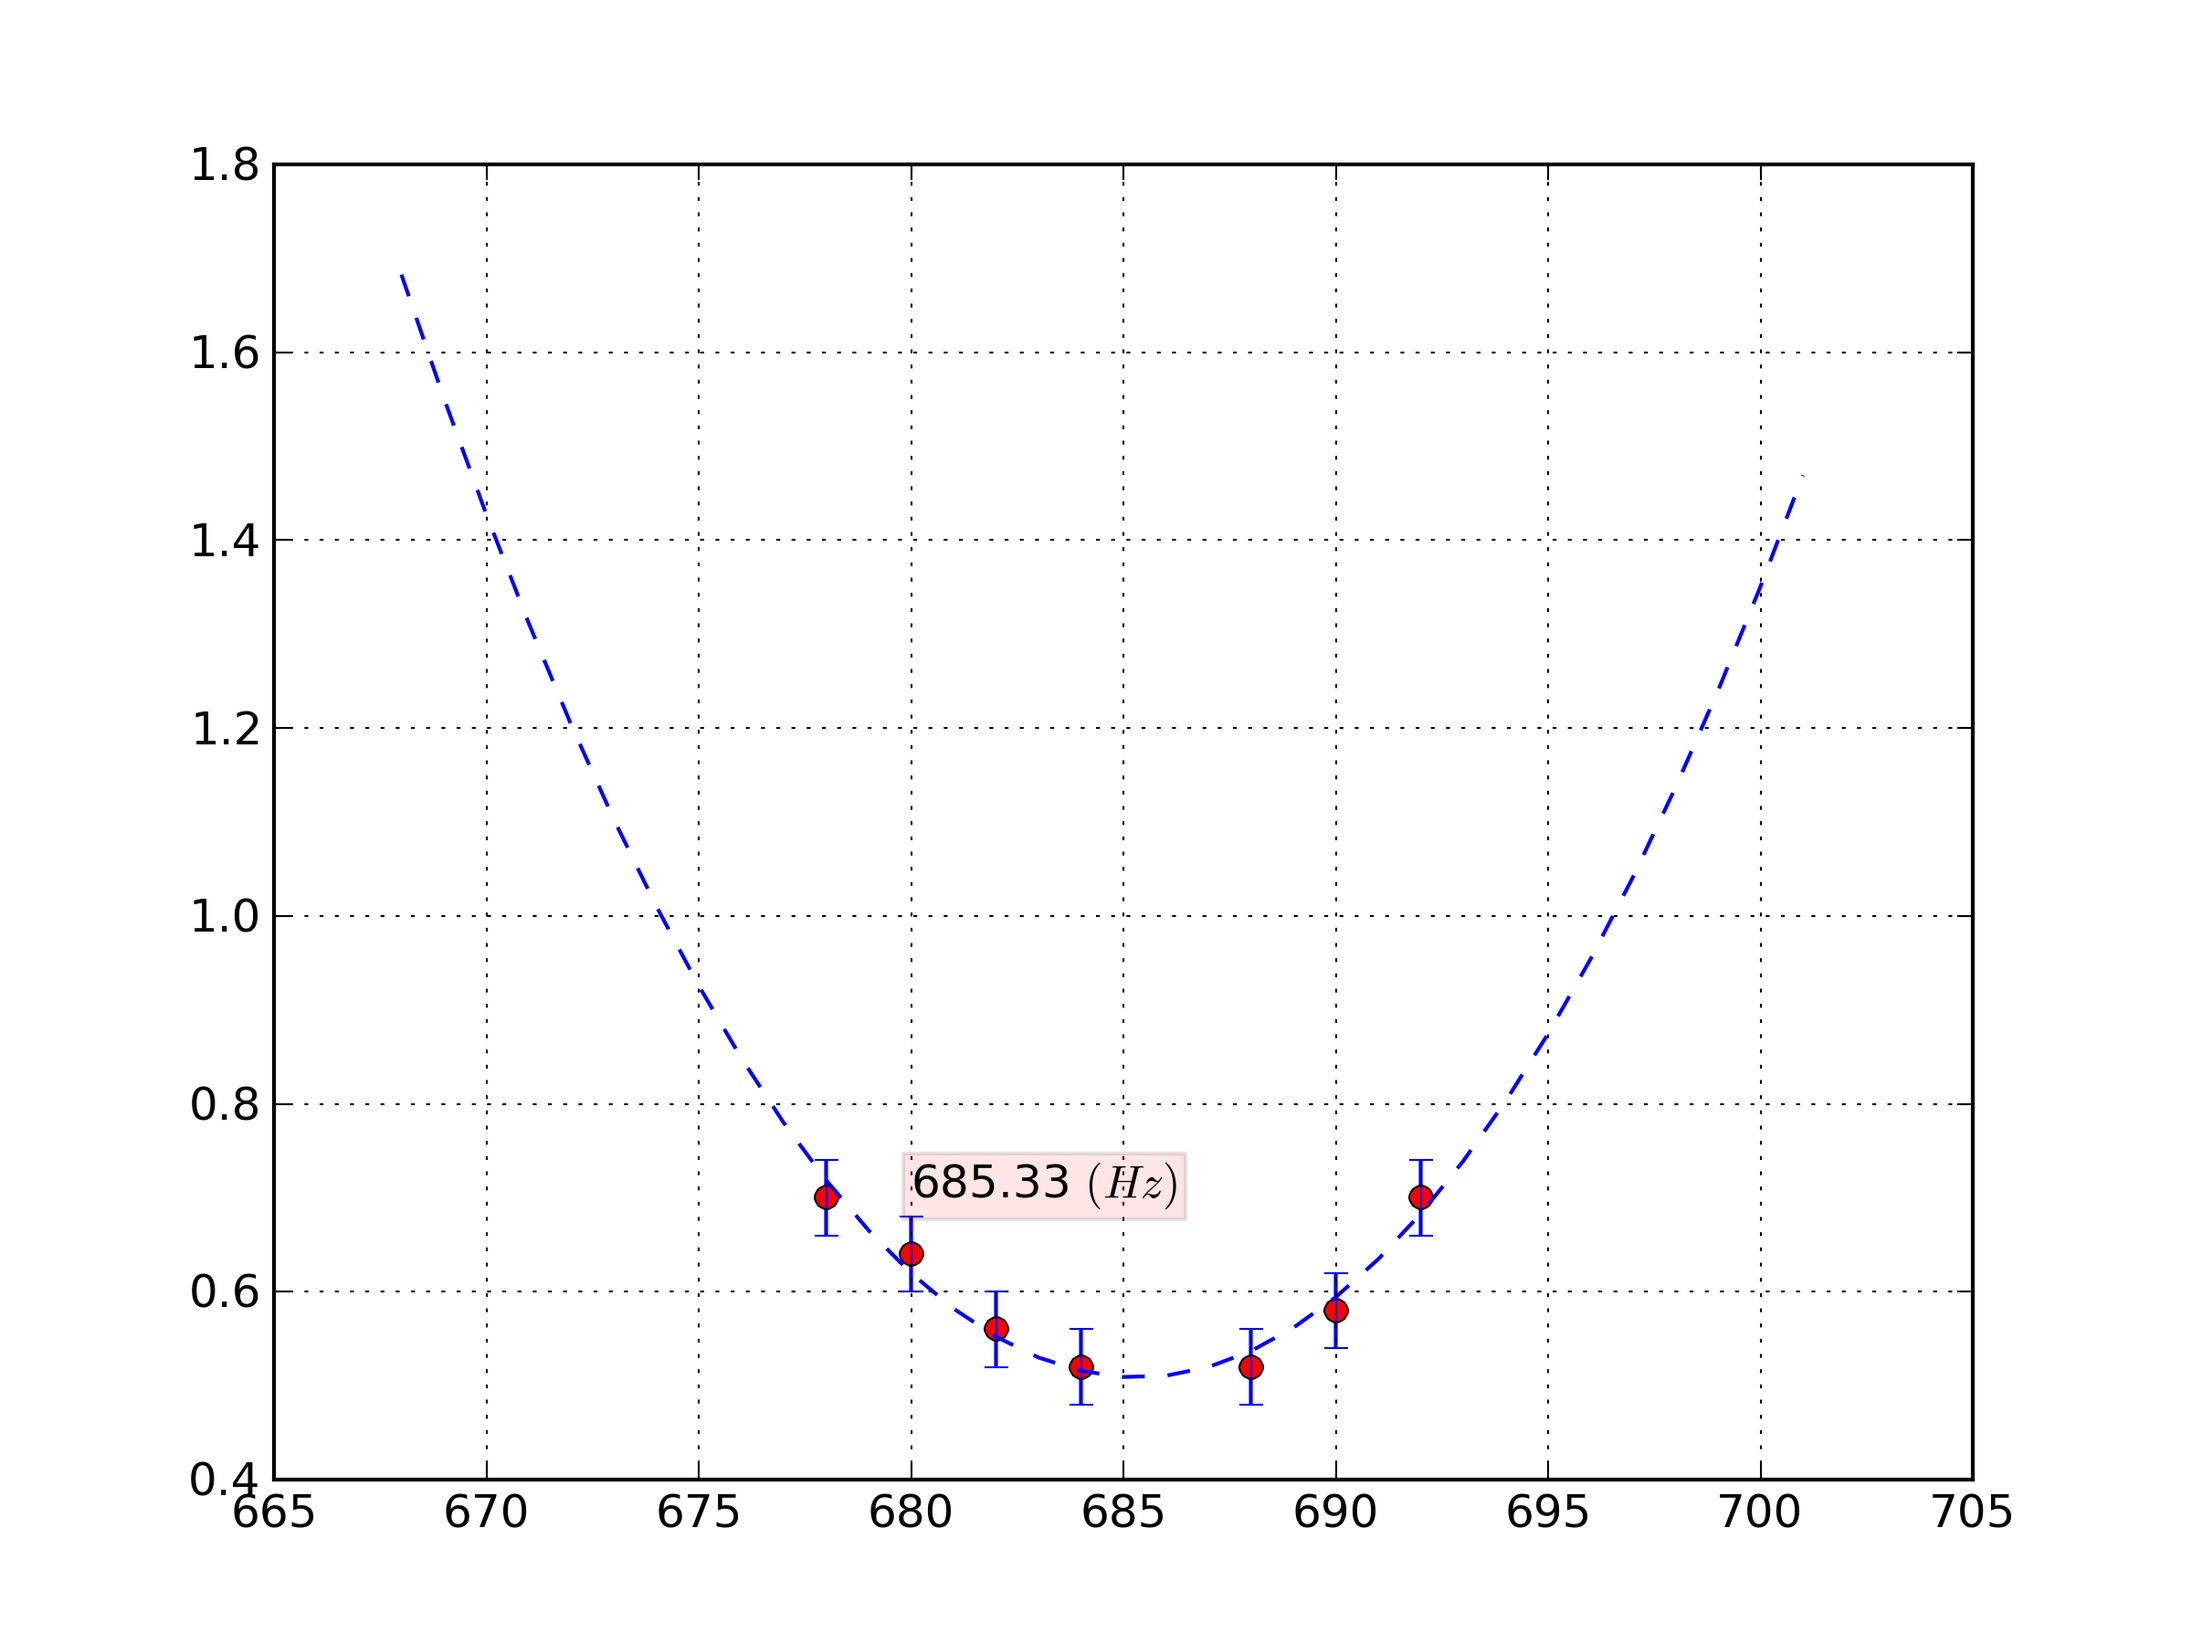
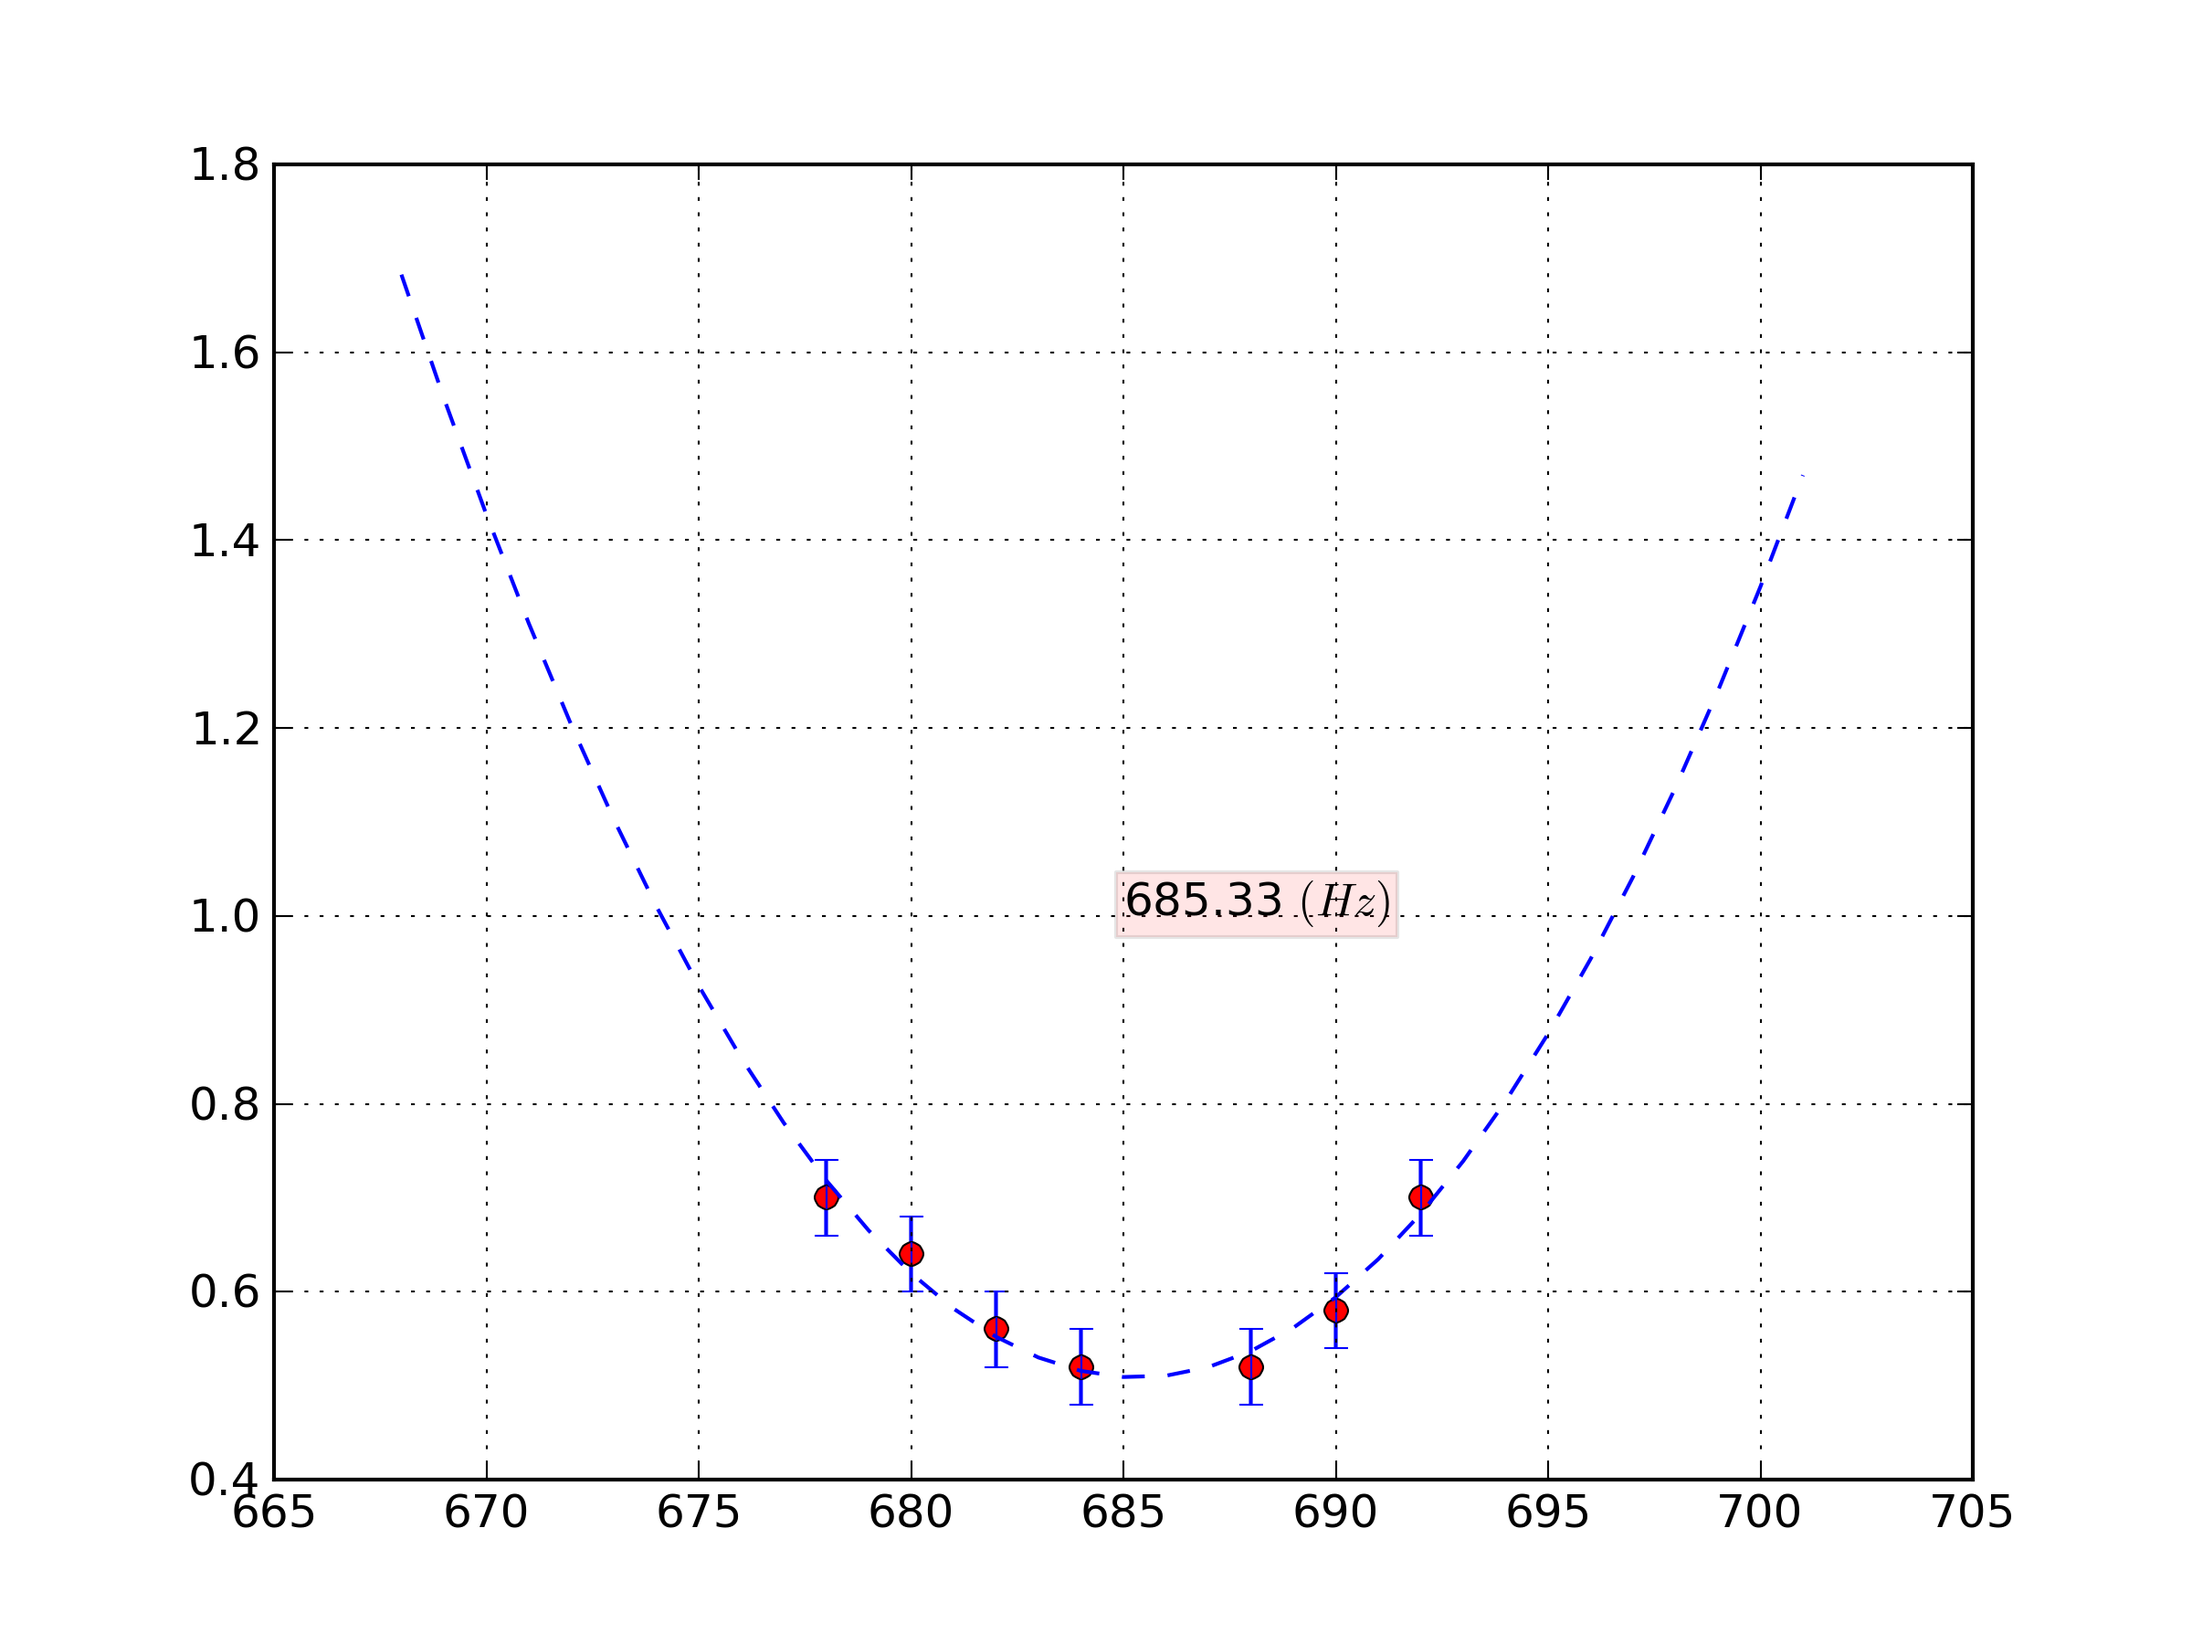
Iii:

Changed region(s): [[0.5, 0.5289, 0.6562, 0.5911], [0.4062, 0.6844, 0.5625, 0.7467]]

diff --git a/em.tex b/em.tex
@@ -37,6 +37,54 @@ Frequenze di risonanza intorno ai 500 kH (nota: è un minimo -> potenziale ai ca
 \end{comment}
 
 \subparagraph*{Configurazione 1}
+%40
+\begin{sagesilent}
+ #Fit per stimare i parametri -> Frequenza di risonanza: -b/2a
+
+#Carico file
+raw = np.recfromcsv('dati/EM/40.csv')
+
+#Seleziono dati per il fit
+batch1 = raw[raw['freq']>640]
+batch2 = batch1[batch1['freq']< 695]
+
+#Carico negli array i dati giusti
+freq = batch2['freq']
+volt = batch2['vout']
+yerr = batch2['errv']
+
+
+def funz(x,a,b,c):
+    return a*x^2+b*x+c
+
+def func(P,x):
+    return funz(x,P[0],P[1],P[2])
+
+mymod = odr.Model(func)
+mydata = odr.RealData(freq,volt)
+myfit = odr.ODR(mydata,mymod,beta0=[1.,1.,1.],maxit=1000)
+myout = myfit.run()
+
+plt.clf()
+xin = np.arange(min(freq)-10,max(freq)+10,1)
+yin = func(myout.beta,xin)
+plt.plot(freq,volt,'ro')
+plt.errorbar(freq,volt,yerr,np.zeros_like(yerr),fmt=None)
+plt.plot(xin,yin,'b--')
+plt.grid(True)
+
+#trovo minimo dai parametri x=-b/2*a
+min1 = -myout.beta[1]/(2*myout.beta[0]) 
+
+#stampo minimo su grafico
+s = repr(round(min1,2))+" $(Hz)$"
+plt.text(675,1.00,s,fontsize=12,bbox=dict(facecolor='red',alpha=0.1))
+
+plt.savefig("grafici/EM/40.png",dpi=300)
+ 
+\end{sagesilent}
+
+
 %38
 \begin{sagesilent}
 #Fit per stimare i parametri -> Frequenza di risonanza: -b/2a
@@ -78,7 +126,7 @@ min1 = -myout.beta[1]/(2*myout.beta[0])
 
 #stampo minimo su grafico
 s = repr(round(min1,2))+" $(Hz)$"
-plt.text(680,0.70,s,fontsize=12,bbox=dict(facecolor='red',alpha=0.1))
+plt.text(685,1.00,s,fontsize=12,bbox=dict(facecolor='red',alpha=0.1))
 
 plt.savefig("grafici/EM/38.png",dpi=300)
 
@@ -127,7 +175,7 @@ min3 = -myout.beta[1]/(2*myout.beta[0])
 
 #stampo minimo su grafico
 s = repr(round(min3,2))+" $(Hz)$"
-plt.text(680,2,s,fontsize=12,bbox=dict(facecolor='red',alpha=0.1))
+plt.text(715,1.5,s,fontsize=12,bbox=dict(facecolor='red',alpha=0.1))
 
 plt.savefig("grafici/EM/34.png",dpi=300)
 \end{sagesilent}
@@ -219,12 +267,13 @@ min5 = -myout.beta[1]/(2*myout.beta[0])
 
 #stampo minimo su grafico
 s = repr(round(min5,2))+" $(Hz)$"
-plt.text(770,1.2,s,fontsize=12,bbox=dict(facecolor='red',alpha=0.1))
+plt.text(765,1.5,s,fontsize=12,bbox=dict(facecolor='red',alpha=0.1))
 
 plt.savefig("grafici/EM/28.png",dpi=300)
 \end{sagesilent}
 
 
+\includegraphics[scale=0.75]{grafici/EM/40.png}
 
 \includegraphics[scale=0.75]{grafici/EM/38.png}
 
